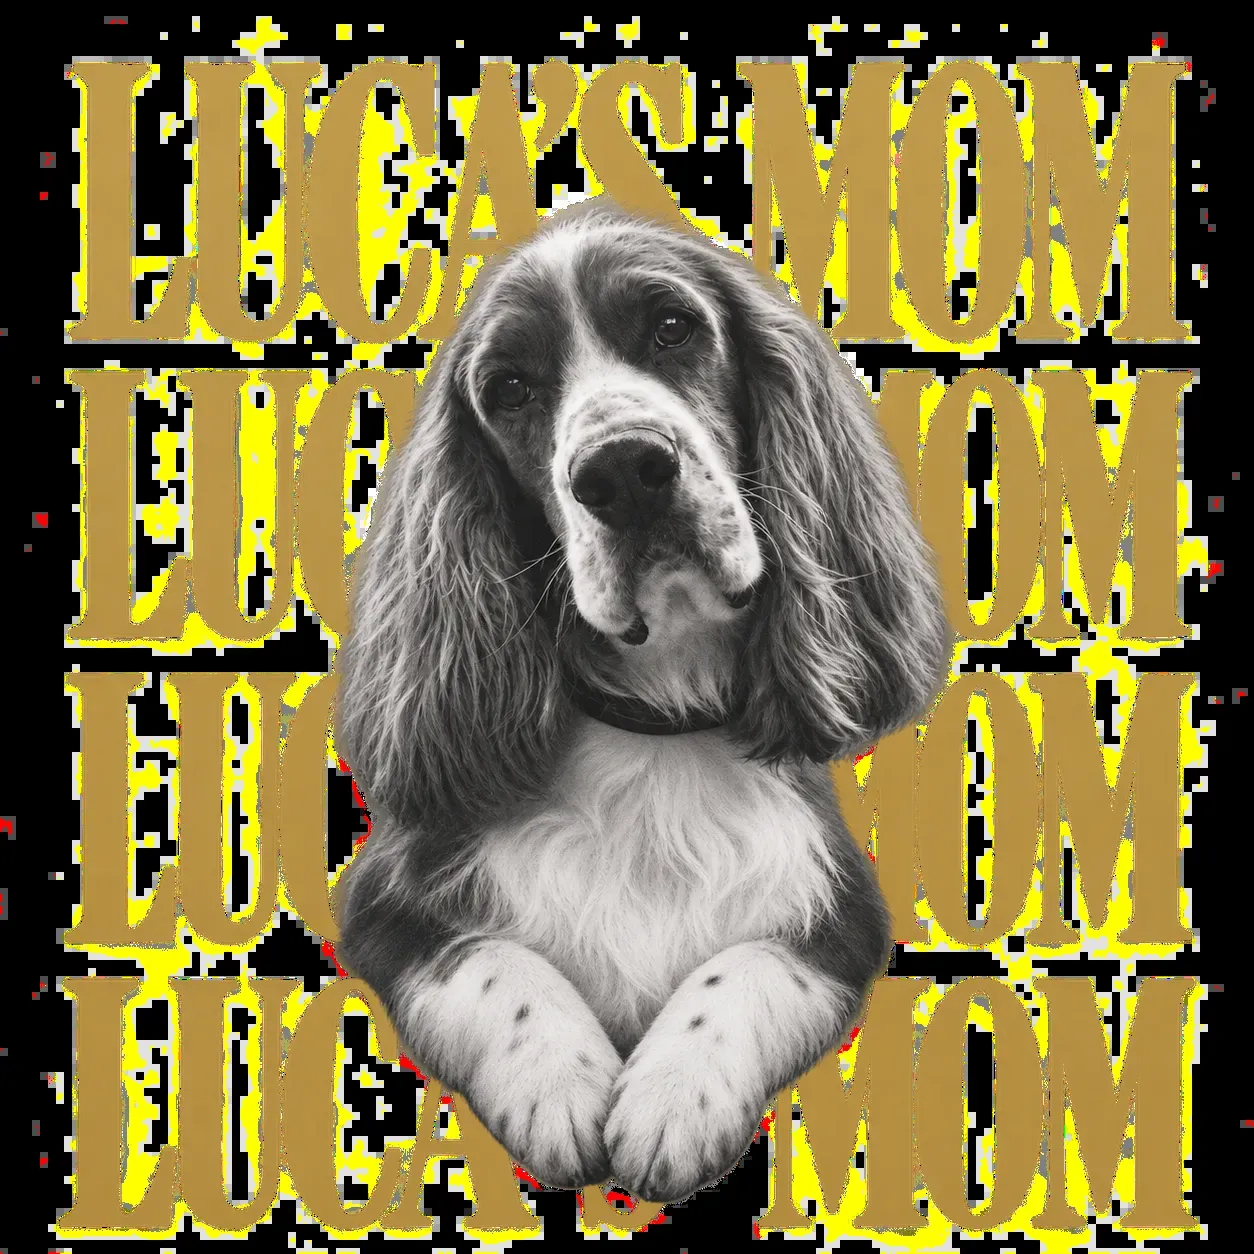
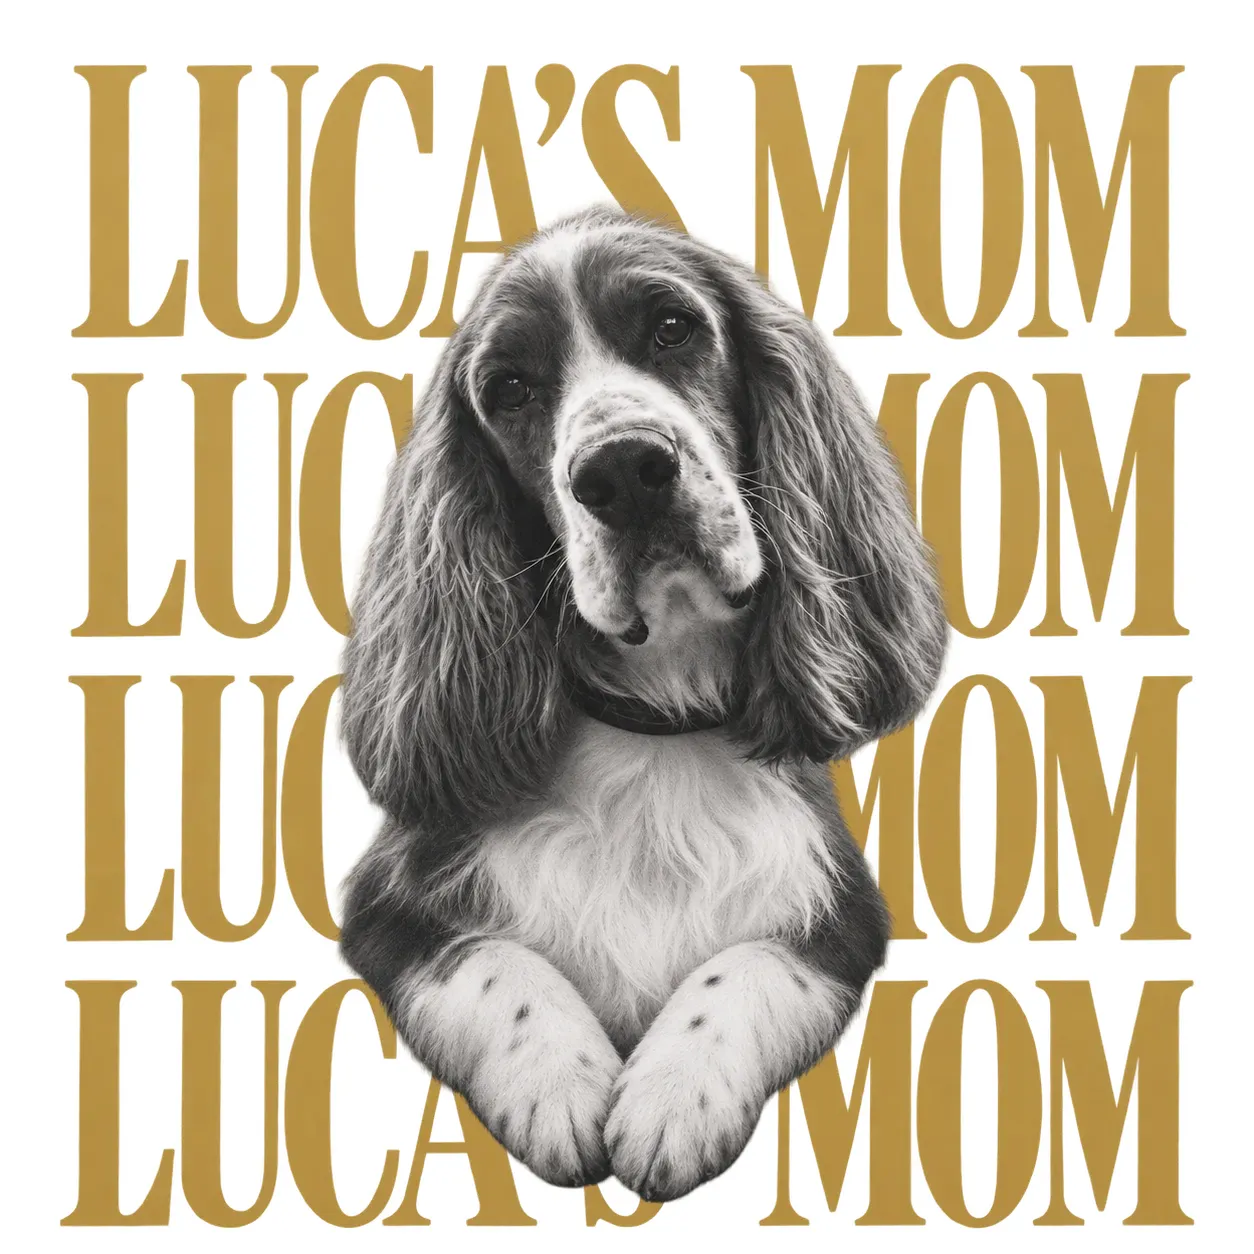
Fix pet tee artwork image (transparent bg rendered black) and cleaner sample dog cutout

diff --git a/components/PetTeePreview.tsx b/components/PetTeePreview.tsx
@@ -24,7 +24,7 @@ const FONT_SIZE = CAP / 0.7; // Abril Fatface cap height = 0.7em
 const CHAR_W = 113; // width of one letter when the line fills the box
 
 // the sample dog, in the print's own coordinates
-const DOG = { x: 268, y: 135, w: 630, h: 1013 };
+const DOG = { x: 277, y: 140, w: 610, h: 1000 };
 
 export default function PetTeePreview({ name, who }: { name: string; who: string }) {
   const [photo, setPhoto] = useState<string | null>(null);
